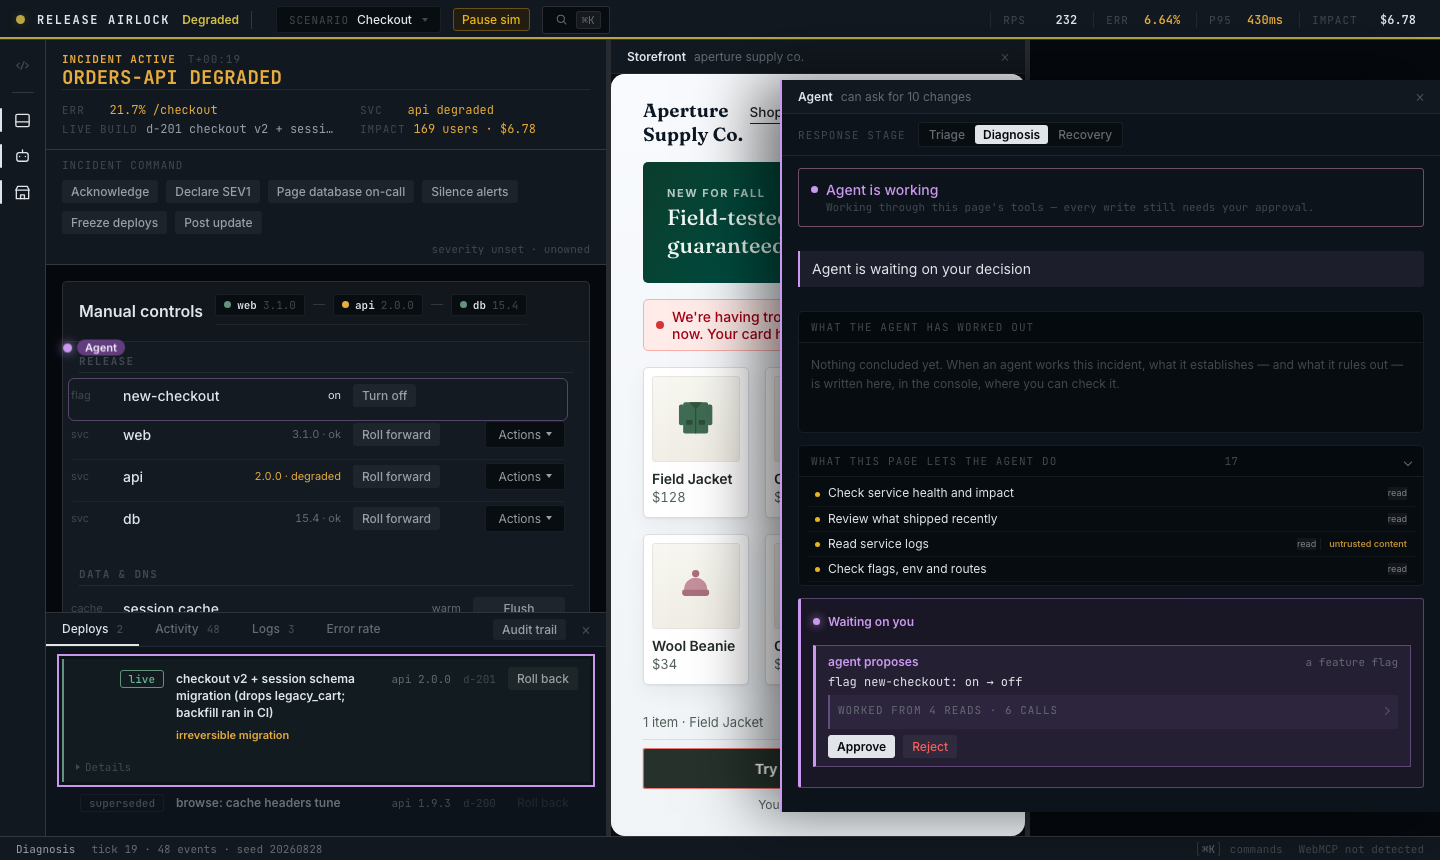
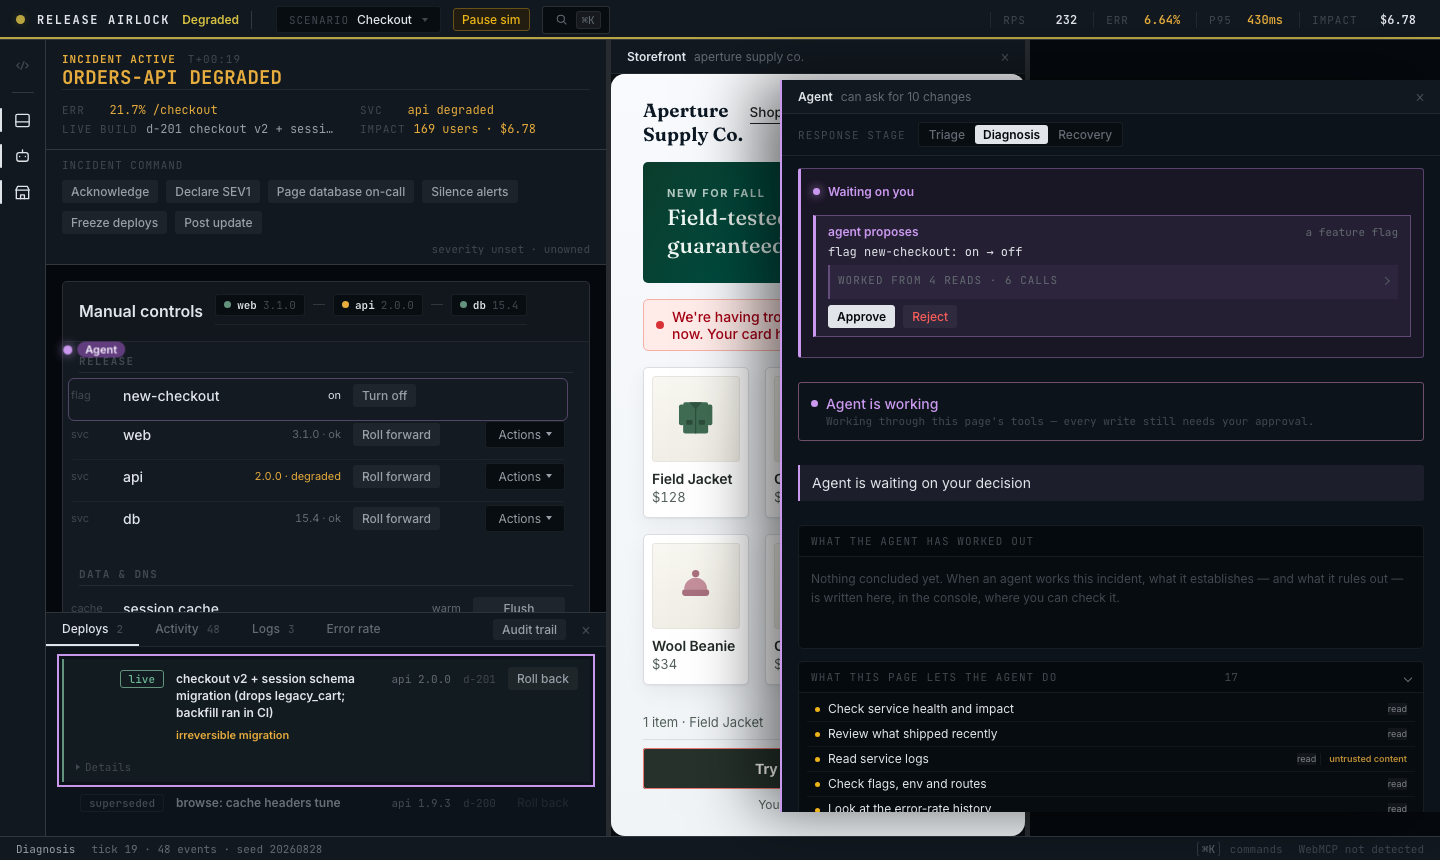
two more from the screenshots: nothing bleeds, nothing is buried
TEXT BURIED — and it was worse than buried, it was rendered at ZERO HEIGHT.
The agent dock's body was a fixed four-row grid template, written when it had
exactly four children. It now holds the review chrome, the airlock, presence,
the narration line, the findings and the capability list, so the extras landed
in implicit rows and were crushed: "what the agent has worked out" (129px of
content) and the entire capability list (752px) were present, clipped to
nothing, invisible. It is a column that does not shrink its children now, and
the dock's own scroll does the work it was always meant to do.

TEXT BLEEDING — two causes, both gone. The plan head carried "one at a time —
nothing runs ahead of you", which is explanation that belongs in a voiceover,
and it was the string running past the card's edge; the behaviour is
self-evident the moment you see step 2 sitting locked under step 1, so it is a
title attribute now. And the disclosure chevron was a flex item needing 13px
the row could not always give it — it sits in a reserved gutter, out of flow,
where it cannot overflow by construction.

THE PLAN'S REASON IS NO LONGER CLAMPED. I clamped it to two lines earlier the
same day under "too dense"; Sid's answer on seeing it was "I'd wanna see all
of that", and he is right. Collapse what EXPLAINS the agent. Never collapse
the argument you are being asked to accept.

Measured, not eyeballed: a sweep for scrollWidth/scrollHeight overflow across
[…]

Changed region(s): [[0.5312, 0.4233, 1.0, 0.9674], [0.5625, 0.2116, 1.0, 0.393], [0.0312, 0.393, 0.0938, 0.4233]]

diff --git a/src/styles/shell.css b/src/styles/shell.css
@@ -1639,7 +1639,11 @@ body {
 }
 .plan-card[data-state='abandoned'] { border-color: var(--line); border-left-color: var(--ink-ghost); opacity: 0.85; }
 .plan-card[data-state='complete'] { border-color: var(--good); border-left-color: var(--good); }
-.pl-head { display: flex; align-items: baseline; gap: var(--sp-2); }
+/* wrap rather than overflow: at a 570px dock the title and the state line
+   together ran 3px past the card and bled over its edge */
+.pl-head { display: flex; align-items: baseline; gap: var(--sp-2); flex-wrap: wrap; }
+.pl-actor { flex: 1 1 auto; min-width: 0; }
+.pl-head::after { flex: none; }
 .pl-actor {
   color: var(--actor-agent);
   font-family: var(--font-prose);
@@ -2593,14 +2597,21 @@ h4.ctl-group-label { margin: 0 0 var(--sp-2); }
    the judges' tiebreak) but it is an inset, bounded, scrolling well
    at the bottom of the region instead of the region itself.
    ============================================================ */
+/* A FIXED FOUR-ROW TEMPLATE, written when this dock had exactly four
+   children. It now holds the review chrome, the airlock, presence, the
+   narration line, the findings and the capability list — so the extras landed
+   in implicit rows and were CRUSHED TO ZERO HEIGHT: "what the agent has
+   worked out" and the whole capability list were rendered, clipped to
+   nothing, and invisible. A column that does not shrink its children, with
+   the dock's own scroll doing the work, cannot do that. */
 #tool-rail .dock-body {
-  display: grid;
-  grid-template-rows: auto auto auto minmax(120px, 1fr);
+  display: flex;
+  flex-direction: column;
   gap: var(--sp-3);
-  align-content: start;
   padding: var(--sp-3) var(--sp-4);
   min-height: 0;
 }
+#tool-rail .dock-body > * { flex: 0 0 auto; }
 .ladder {
   margin-bottom: 0;
   min-height: 0;
@@ -3036,16 +3047,12 @@ details.ap-evidence > summary:focus-visible,
 details.ladder > summary:focus-visible { outline: 2px solid var(--actor-agent); outline-offset: 2px; }
 details.ap-evidence > *:not(summary) { margin-top: var(--sp-2); }
 
-/* the reason a plan gives for its order is the point of the plan, so it
-   stays — but three lines of it at rest is a wall. Clamp, and let it open. */
-.pl-why-t {
-  display: -webkit-box;
-  -webkit-line-clamp: 2;
-  -webkit-box-orient: vertical;
-  overflow: hidden;
-  cursor: pointer;
-}
-.pl-why-t[data-expanded='true'] { display: block; -webkit-line-clamp: none; }
+/* NOT CLAMPED. The reason for the ORDER is the whole point of a plan being
+   an object at all, it is three lines, and clamping it buried the one thing
+   the operator is supposed to weigh before approving anything. Collapse what
+   EXPLAINS the agent; never collapse the argument you are being asked to
+   accept. (Reverses the clamp added earlier the same day.) */
+.pl-why-t { overflow-wrap: anywhere; }
 
 /* hierarchy inside a step: WHAT is the thing being decided, the price and the
    agent's aside are support and are set as support */
@@ -3089,15 +3096,21 @@ details.ap-evidence > *:not(summary) { margin-top: var(--sp-2); }
 .plan-card[data-collapsed='true'] .pl-actor { color: var(--ink-dim); }
 .plan-card[data-outcome='resolved'] .pl-state { color: var(--good); }
 /* the affordance that it re-opens */
+/* The chevron is taken OUT of the flow. As a flex item it was 13px the row
+   could not always give it, and the overflow painted past the card's edge —
+   the "text bleeding over" in Sid's screenshot. A reserved gutter cannot
+   overflow. */
+.pl-head { position: relative; box-sizing: border-box; padding-right: 16px; }
 .pl-head::after {
   content: '';
-  display: inline-block;
-  margin-left: var(--sp-2);
+  position: absolute;
+  right: 2px;
+  top: 5px;
   width: 5px;
   height: 5px;
   border-right: 1px solid currentColor;
   border-bottom: 1px solid currentColor;
-  transform: rotate(45deg) translateY(-2px);
+  transform: rotate(45deg);
   opacity: 0.55;
 }
-.plan-card[data-collapsed='true'] .pl-head::after { transform: rotate(-45deg) translateY(-1px); }
+.plan-card[data-collapsed='true'] .pl-head::after { transform: rotate(-45deg); }

diff --git a/src/main.ts b/src/main.ts
@@ -1348,7 +1348,11 @@ function renderPlan(e: Event): void {
   who.textContent = `agent proposes ${steps.length} steps, in this order`;
   const state = document.createElement('span');
   state.className = 'pl-state';
-  state.textContent = 'one at a time — nothing runs ahead of you';
+  // The head carries STATE, not a sales line. "one at a time — nothing runs
+  // ahead of you" was explanation that belongs in a voiceover, it was the
+  // thing overflowing the card's edge, and the behaviour is self-evident the
+  // moment you see step 2 sitting locked underneath step 1.
+  head.title = 'Approved one step at a time — nothing runs ahead of you';
   head.append(who, state);
   el.append(head);
 
@@ -1362,13 +1366,6 @@ function renderPlan(e: Event): void {
   k.textContent = 'Why this order';
   const body = document.createElement('p');
   body.className = 'pl-why-t';
-  body.tabIndex = 0;
-  body.title = 'Show the whole reason';
-  // clamped to two lines at rest; the reason for an ORDER is worth reading in
-  // full, but not worth three lines of wall before you have decided to
-  body.addEventListener('click', () => {
-    body.dataset.expanded = body.dataset.expanded === 'true' ? 'false' : 'true';
-  });
   renderCitedText(body, String(d.reason ?? ''));
   why.append(k, body);
   el.append(why);
